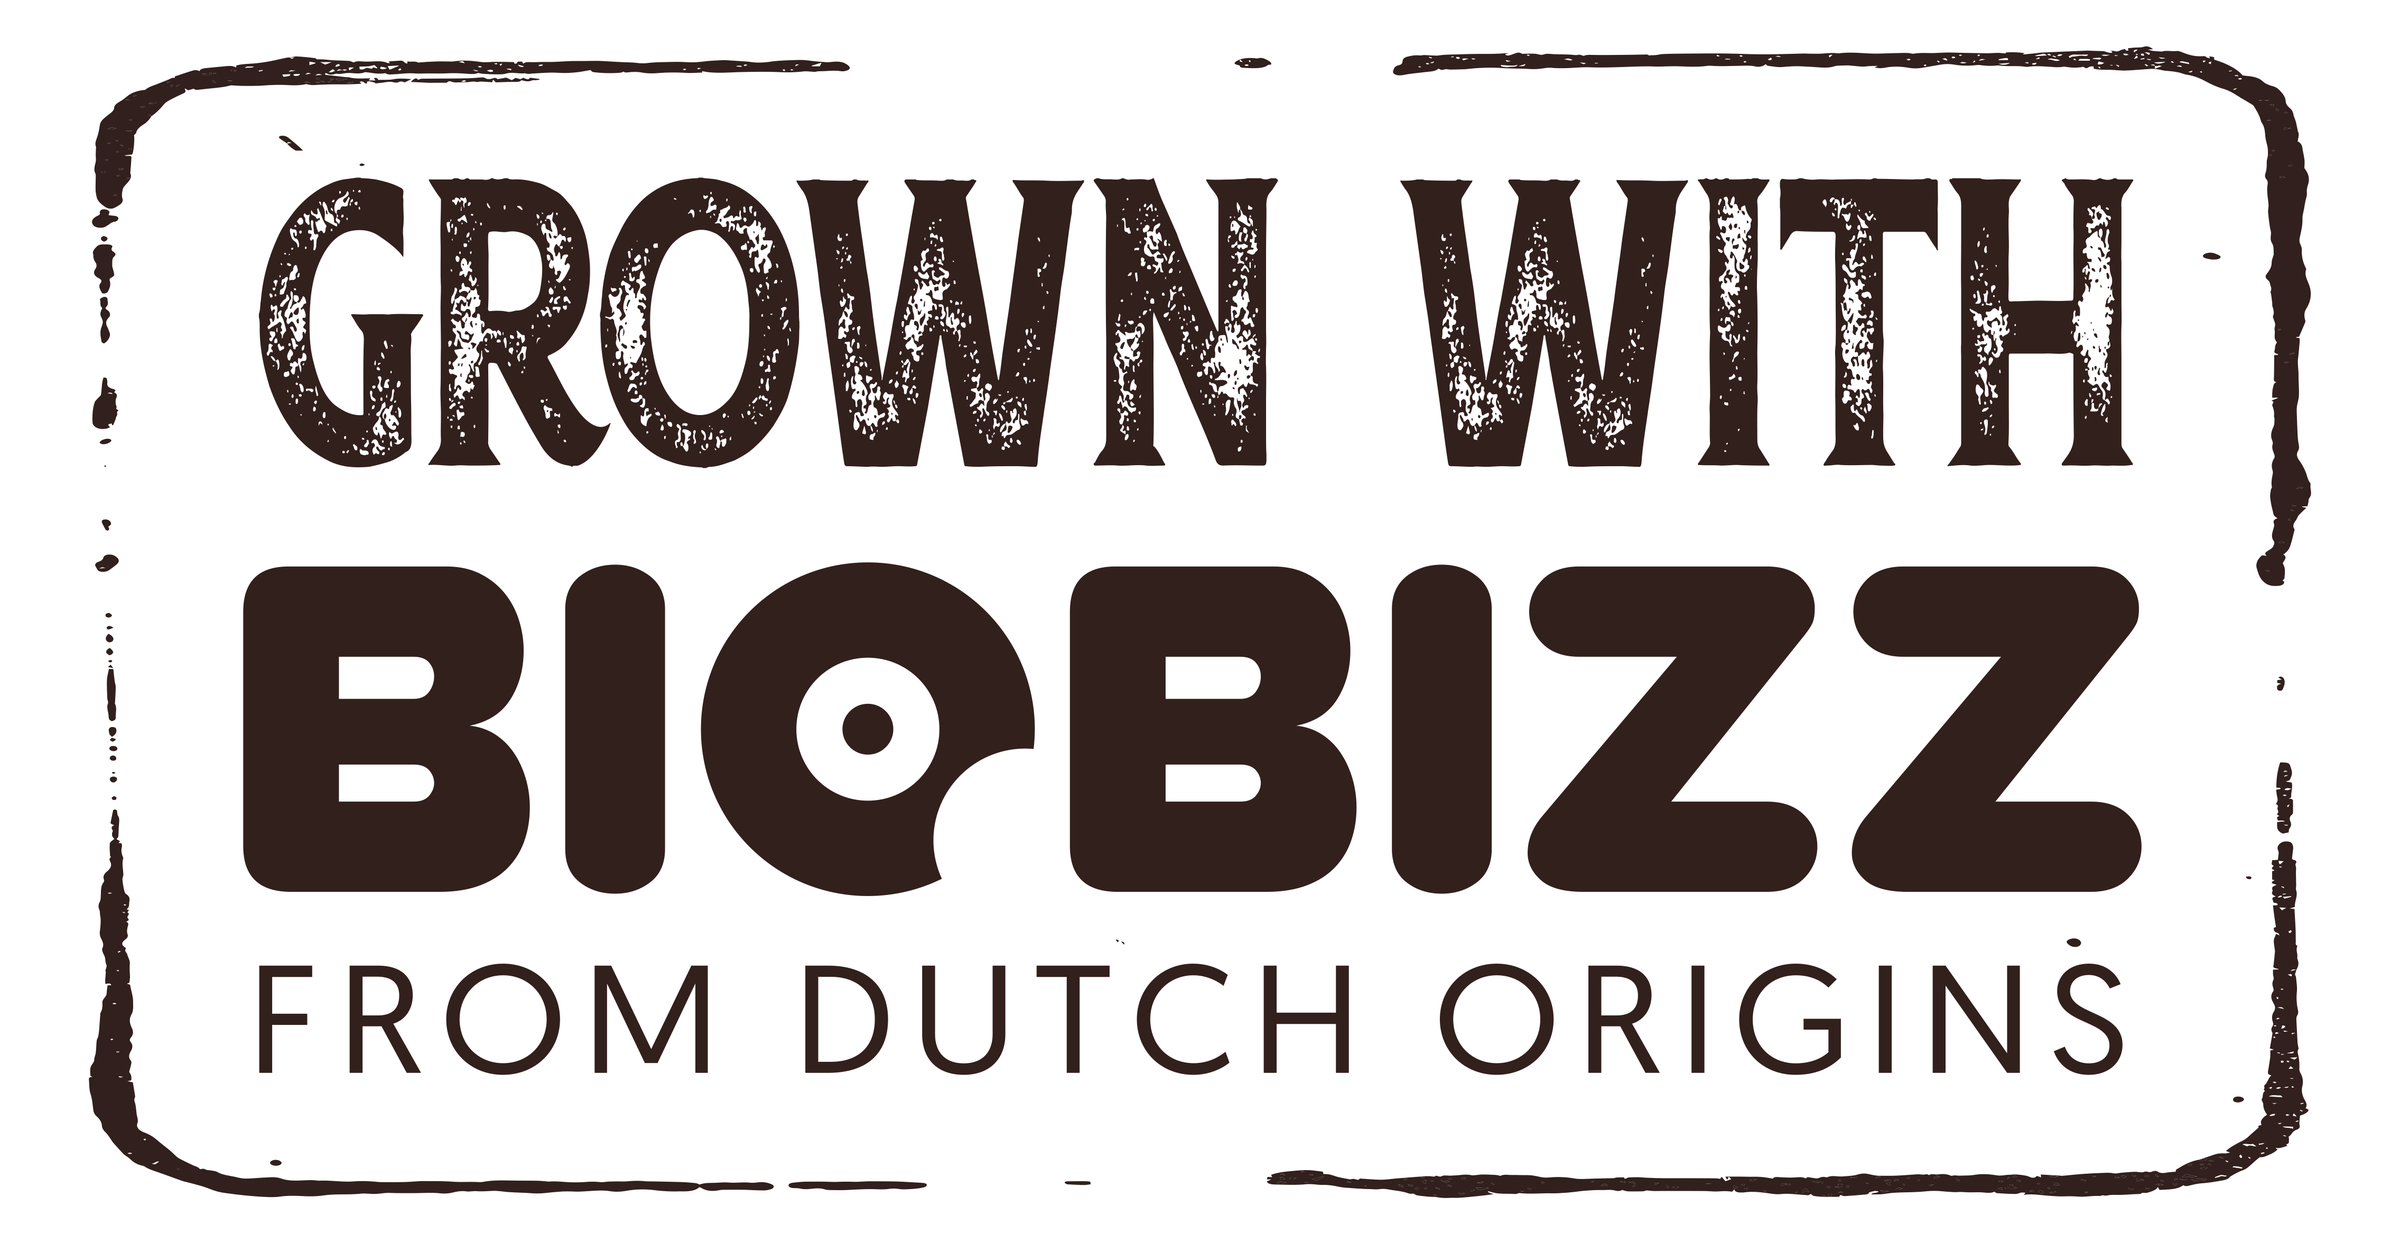
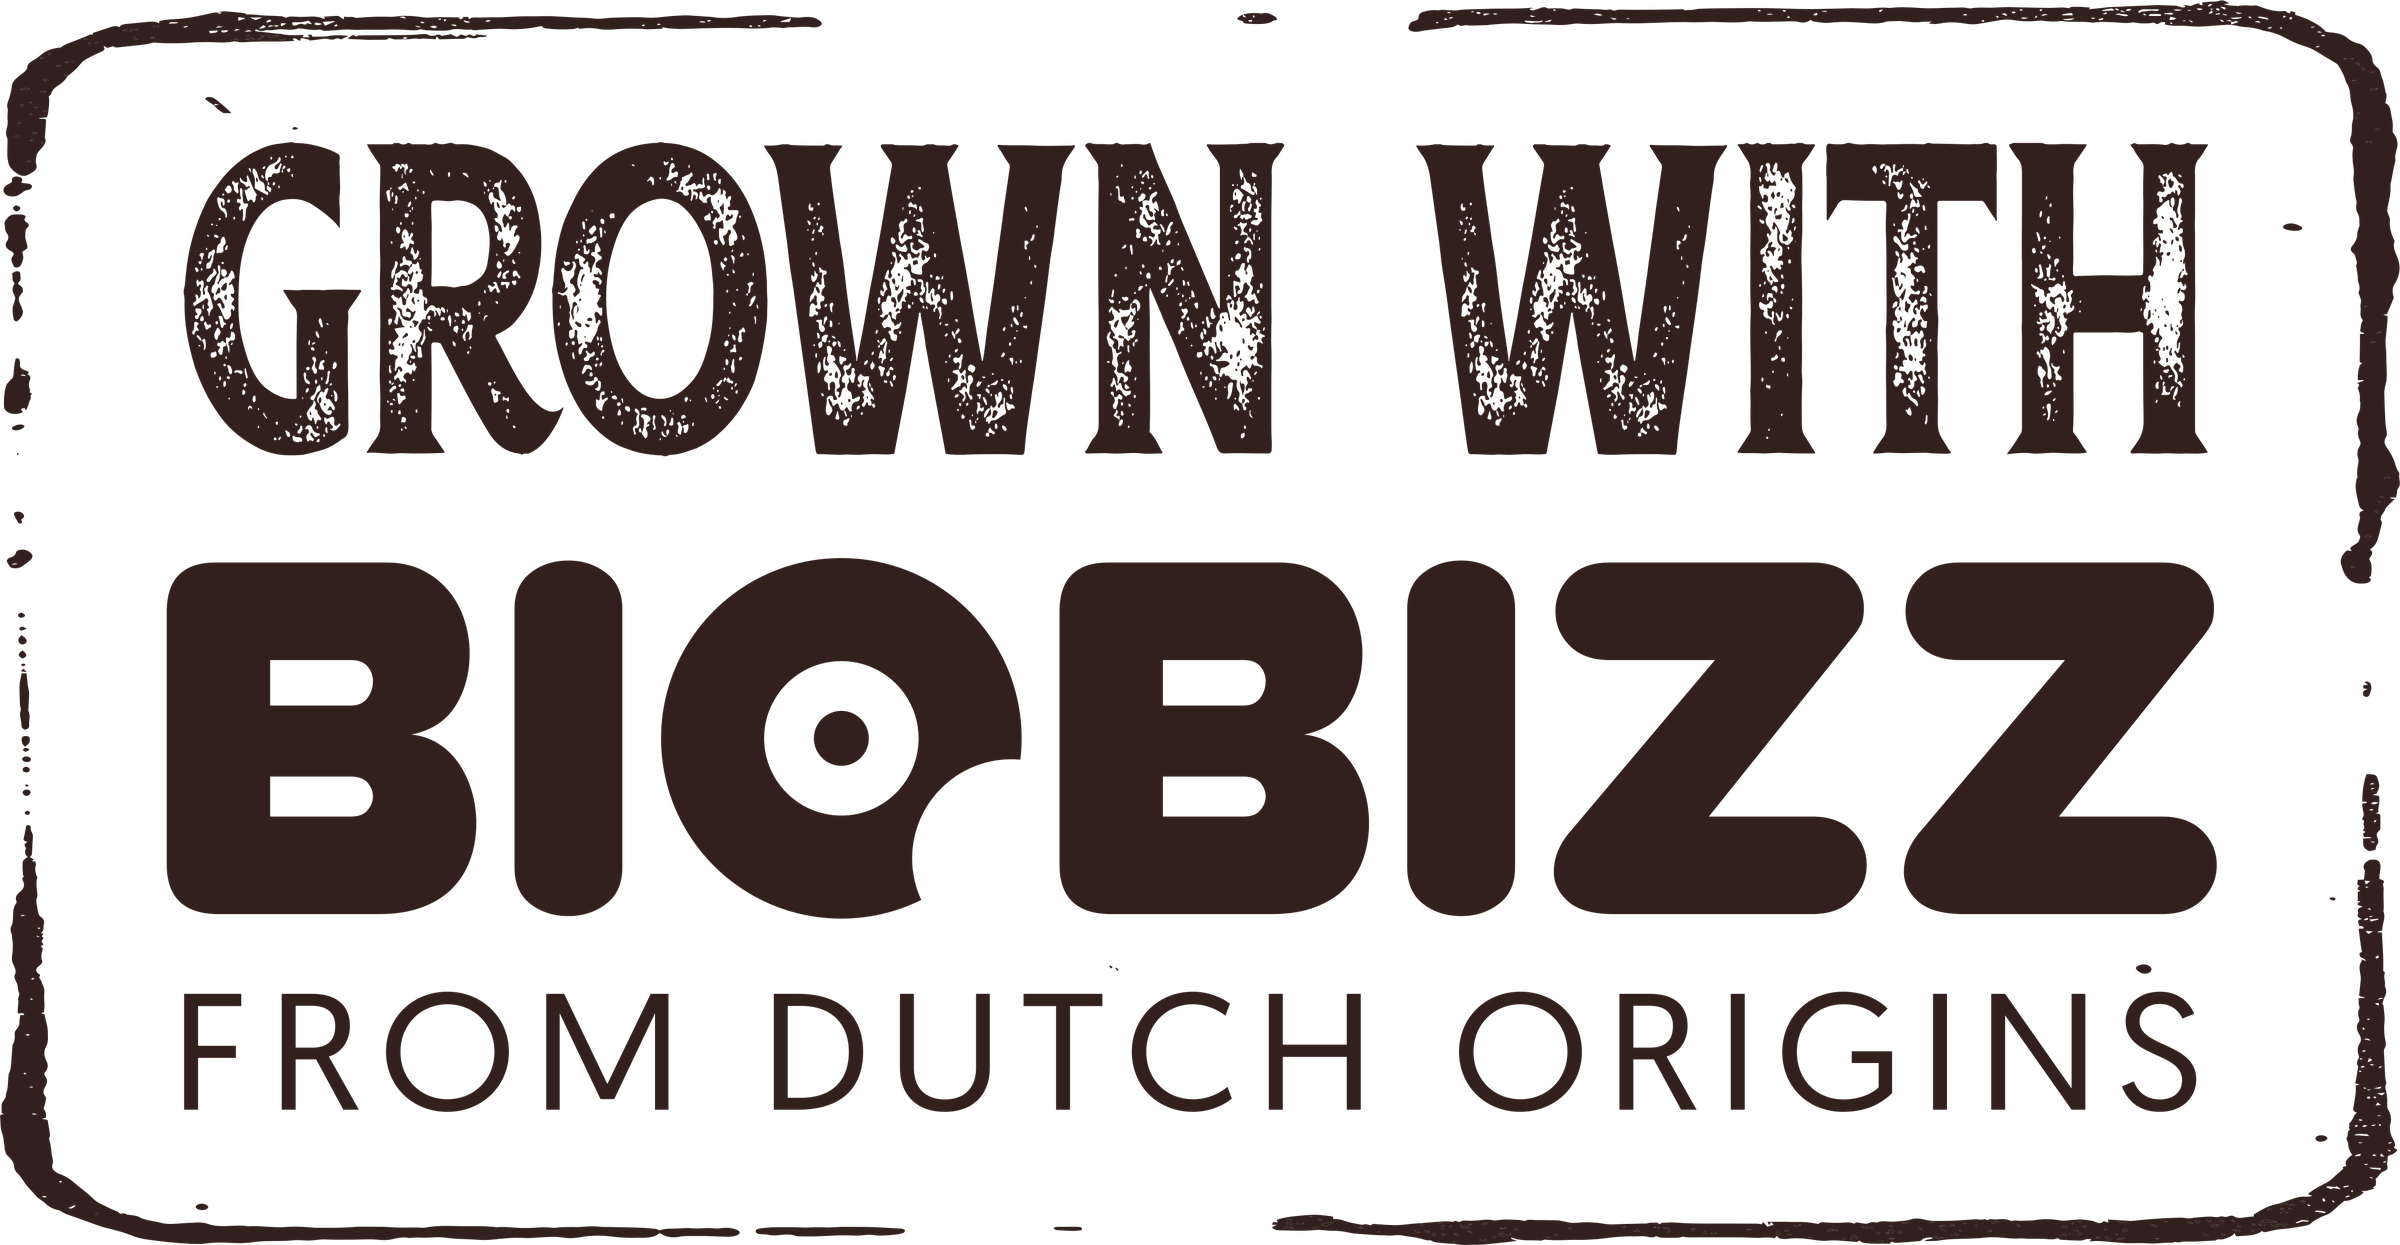
Balance BioBizz section — paired widths, soft paper card for stamp
- Re-rendered stamp with transparent background from the .ai source
- Wrapped stamp in a cream rounded-[2.25rem] paper card with a soft
  drop shadow so the container shape matches the playful stamp ink
  instead of fighting it with a hard-edged white rectangle
- Matched both logos to max-w-[22rem] so they read as a pair and
  align cleanly against the "Rooted in the same values" column
- Both logos now link to biobizz.com; stamp has a subtle hover lift

diff --git a/app/preview/page.tsx b/app/preview/page.tsx
@@ -421,29 +421,39 @@ export default function HomePage() {
 
           <div className="grid md:grid-cols-2 gap-16 items-center">
             {/* Left — logos */}
-            <div className="flex flex-col items-center gap-10">
-              <Image
-                src="/grown-with-biobizz.png"
-                alt="Grown with BioBizz — From Dutch Origins"
-                width={2400}
-                height={1244}
-                quality={100}
-                unoptimized
-                className="w-full max-w-sm h-auto object-contain"
-              />
+            <div className="flex flex-col items-center gap-10 w-full">
               <a
                 href="https://www.biobizz.com"
                 target="_blank"
                 rel="noopener noreferrer"
                 aria-label="Visit BioBizz — opens in a new tab"
-                className="group inline-block transition-opacity hover:opacity-80"
+                className="block w-full max-w-[22rem] transition-transform duration-500 hover:scale-[1.02]"
+              >
+                <div className="rounded-[2.25rem] bg-[#F6F4EF] px-8 py-10 shadow-[0_20px_60px_-20px_rgba(0,0,0,0.5)]">
+                  <Image
+                    src="/grown-with-biobizz.png"
+                    alt="Grown with BioBizz — From Dutch Origins"
+                    width={2400}
+                    height={1245}
+                    quality={100}
+                    unoptimized
+                    className="w-full h-auto object-contain"
+                  />
+                </div>
+              </a>
+              <a
+                href="https://www.biobizz.com"
+                target="_blank"
+                rel="noopener noreferrer"
+                aria-label="Visit BioBizz — opens in a new tab"
+                className="block w-full max-w-[22rem] transition-opacity hover:opacity-80"
               >
                 <Image
                   src="/biobizz-logo-wide.png"
                   alt="BioBizz World Wide Organics"
                   width={800}
                   height={450}
-                  className="w-full max-w-md h-auto object-contain brightness-0 invert"
+                  className="w-full h-auto object-contain brightness-0 invert"
                 />
               </a>
             </div>
